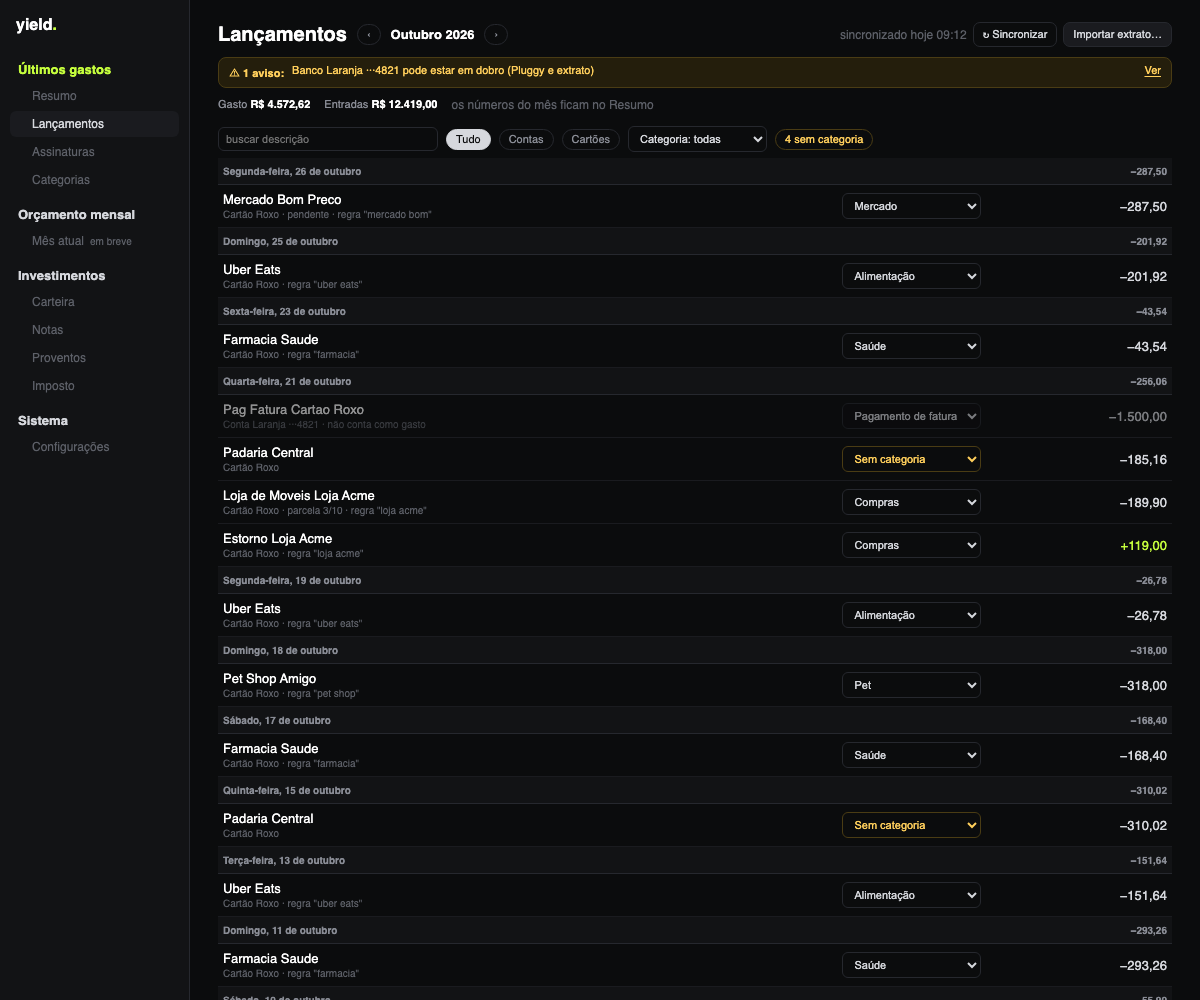
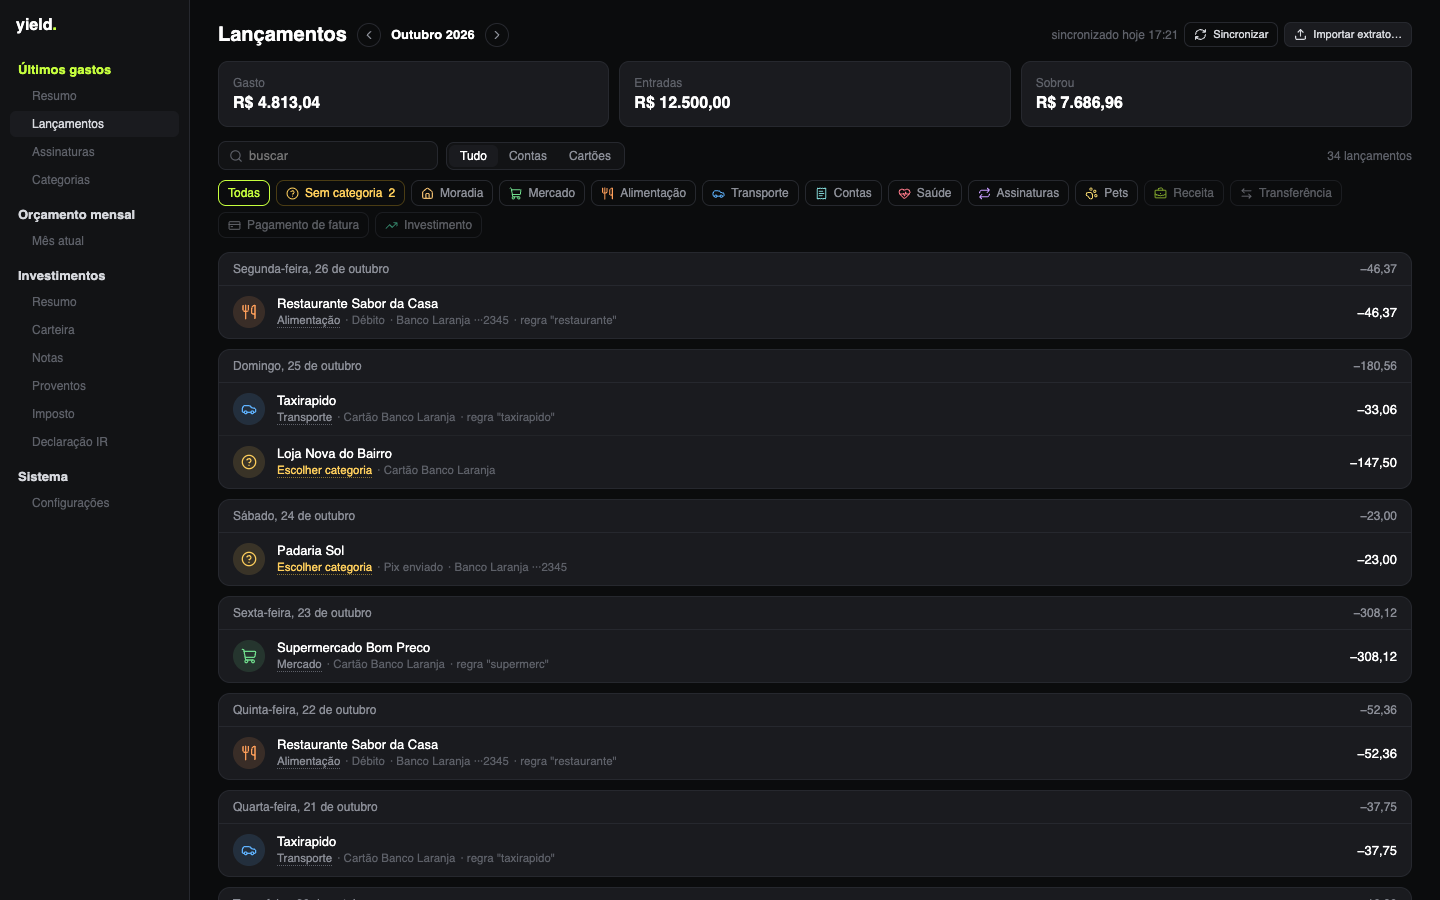
docs: README com GIF e prints novos, CHANGELOG e versão 0.3.0

diff --git a/README.md b/README.md
@@ -20,10 +20,10 @@
 </p>
 
 <p align="center">
-  <img src="docs/screenshots/resumo-gastos.png" width="860" alt="Resumo de gastos do mês com gráficos">
+  <img src="docs/screenshots/yield.gif" width="860" alt="Passeio pelo app: resumo de gastos, lançamentos, categorias, assinaturas, investimentos e declaração de IR">
 </p>
 
-> Todas as imagens usam dados inventados.
+> Todas as imagens usam dados inventados. O que mudou em cada versão está no [CHANGELOG](CHANGELOG.md).
 
 ---
 
@@ -43,10 +43,10 @@ Só três coisas saem do computador:
 
 | | |
 |---|---|
-| **Resumo** | Gasto, entradas e quanto sobrou no mês; gasto acumulado dia a dia contra o mês anterior; gasto por categoria (clicar filtra a lista); últimos 6 meses; maiores gastos. |
-| **Lançamentos** | Conta e cartão juntos, por dia, com busca e filtros. Trocar a categoria de uma compra ou criar a regra "sempre categorizar *X* como *Y*". |
-| **Assinaturas** | Detecta cobranças que se repetem todo mês ou todo ano, com valor parecido, e avisa quando o preço sobe. Parcelas não entram. |
-| **Categorias** | Categorias e regras editáveis. Pagamento de fatura, transferência e investimento não contam como gasto, então a compra no cartão não aparece duas vezes. |
+| **Resumo** | Gasto, entradas, quanto sobrou e o **orçamento do mês com a projeção** "no ritmo atual fecha em…"; o que mais mudou contra o mês anterior; gasto acumulado dia a dia; categorias com a barra do orçamento; últimos 6 meses com o traço do planejado (clicar num mês troca o resumo); maiores gastos e próximas cobranças. |
+| **Lançamentos** | Conta e cartão juntos, um cartão por dia, com o nome do lugar limpo ("Pix enviado · Padaria Sol") e a conta curta. Faixa de categorias para filtrar, total do que está filtrado e grade de categorias com ícones para trocar a de uma compra — ou criar a regra "sempre categorizar *X* como *Y*". |
+| **Assinaturas** | Detecta cobranças que se repetem todo mês ou todo ano e avisa quando o preço sobe. Próximas cobranças, o peso de cada uma no total do mês e exclusão com confirmação. Parcelas não entram. |
+| **Categorias** | Grade com o gasto do mês, a variação contra o mês anterior e a barra do orçamento; ícone e cor escolhidos por você; regras com prévia ("pegaria 17 compras") e sugestões a partir do que você categoriza à mão; apagar uma categoria move as compras e regras para outra. Pagamento de fatura, transferência e investimento não contam como gasto. |
 
 As transações chegam de dois jeitos:
 
@@ -54,7 +54,11 @@ As transações chegam de dois jeitos:
 - **extratos** OFX (Bradesco, Itaú, BB, Inter…) e CSV (Nubank conta, Mercado Pago). Importar o mesmo arquivo de novo não duplica nada.
 
 <p align="center">
-  <img src="docs/screenshots/lancamentos.png" width="860" alt="Lista de lançamentos por dia com categorias">
+  <img src="docs/screenshots/lancamentos.png" width="860" alt="Lançamentos por dia com faixa de categorias">
+</p>
+
+<p align="center">
+  <img src="docs/screenshots/categorias.png" width="860" alt="Categorias em grade com orçamento e regras">
 </p>
 
 ### 🗓 Orçamento mensal
@@ -63,21 +67,26 @@ As transações chegam de dois jeitos:
 |---|---|
 | **Mês atual** | Entradas, saídas e saldo do mês; planejado × gasto real até agora (com a marca de quanto do mês passou) e por categoria; criar o mês seguinte copiando as linhas recorrentes, com as parcelas avançando sozinhas. |
 | **Sugestões** | Assinaturas e parcelas que faltam, vindas dos seus gastos reais. Nada entra no plano sem você aceitar. |
-| **Fontes de renda** | Salário PJ calculado (pró-labore, IRPJ, INSS, contabilidade) ou valor fixo; mudar uma fonte atualiza este mês e os próximos. |
+| **Fontes de renda** | Salário **CLT** (INSS e IRRF de 2026, com a isenção até R$ 5 mil, dependentes e outros descontos), salário **PJ** (pró-labore, IRPJ, INSS, contabilidade) ou valor fixo; mudar uma fonte atualiza este mês e os próximos. |
 | **Importação** | Lê a aba de orçamento de uma planilha, inclusive a calculadora de salário PJ, sem duplicar ao reimportar. |
 
 ### 📈 Investimentos
 
 | | |
 |---|---|
-| **Resumo** | Patrimônio, resultado, proventos e imposto num só lugar; aportado ao longo do tempo × valor de hoje; patrimônio por classe; proventos por mês (rendimento, dividendo, JCP); maiores posições. |
+| **Resumo** | Patrimônio, resultado, proventos (com o rendimento sobre o custo) e imposto; **quanto da sua renda passiva já cobre o gasto médio**; aportado × valor de hoje; classes com o ganho de cada uma; proventos por mês (clicar abre Proventos filtrado); maiores posições. |
 | **Carteira** | Posições com preço médio, custo, cotação e variação, agrupadas por classe, mais ativos manuais (renda fixa, cripto, dólar). |
 | **Notas** | Compras e vendas **importadas do relatório de Negociação da B3**, notas de corretagem digitadas ou **lidas do PDF da Clear** (com taxas rateadas), e eventos corporativos (bonificação, desdobramento, grupamento, troca de ticker). |
-| **Proventos** | Dividendos, JCP e rendimentos, importados dos Proventos Recebidos da B3 ou lançados à mão. |
+| **Proventos** | Dividendos, JCP e rendimentos (importados da B3 ou à mão): 12 meses, ano contra ano, rendimento sobre o custo, gráfico de 24 meses que filtra a lista, ranking por ativo e totais por ano. |
 | **Imposto** | Apuração mensal de renda variável: isenção de R$ 20 mil para ações, prejuízo a compensar (comum e FII), IRRF, DARF (código 6015) com vencimento em dia útil e acompanhamento do que foi pago. |
+| **Declaração IR** | Tudo o que vai na declaração sobre a bolsa, pronto para copiar campo a campo: **Bens e Direitos** (grupo/código, CNPJ, situação nos dois 31/12 e a discriminação pronta), **Rendimentos** isentos e de tributação exclusiva por fonte pagadora, **Renda variável** mês a mês e o cadastro de empresas e corretoras (importável da planilha antiga). |
 
 <p align="center">
-  <img src="docs/screenshots/resumo-investimentos.png" width="860" alt="Resumo de investimentos com gráficos">
+  <img src="docs/screenshots/resumo-investimentos.png" width="860" alt="Resumo de investimentos com renda passiva e classes">
+</p>
+
+<p align="center">
+  <img src="docs/screenshots/declaracao-ir.png" width="860" alt="Declaração de IR: bens e direitos com a discriminação pronta para copiar">
 </p>
 
 ### ⚙ Sistema
@@ -85,6 +94,7 @@ As transações chegam de dois jeitos:
 - Importa da Área do Investidor da B3 os relatórios de Negociação, Proventos Recebidos e Movimentação, vários de uma vez, sem duplicar.
 - Backup num arquivo `.yield` criptografado com uma senha sua (AES-256-GCM, chave derivada com Argon2id). Antes de importar um backup, o app guarda uma cópia de segurança do banco atual.
 - Cotações automáticas a cada 15 minutos.
+- Atualização automática: o app avisa quando sai versão nova no GitHub e se atualiza sozinho (pacotes assinados).
 
 ## 🔒 Privacidade e segurança
 

diff --git a/CHANGELOG.md b/CHANGELOG.md
@@ -1,0 +1,35 @@
+# Changelog
+
+O que mudou em cada versão do yield. O app avisa e se atualiza sozinho quando sai uma versão nova.
+
+## 0.3.0
+
+### Novidades
+- **Declaração de IR** (Investimentos › Declaração IR): tudo o que vai na declaração sobre a bolsa, pronto para copiar campo a campo.
+  - **Bens e Direitos**: um cartão por ativo com grupo/código da Receita, CNPJ, situação em 31/12 dos dois anos e a discriminação pronta ("500 Ações de … ao custo de R$ … cada - Ticker … - Custodiadas na corretora …"). Botão para copiar todas de uma vez.
+  - **Rendimentos**: dividendos (09), rendimentos de FII (26), lucro isento de vendas até R$ 20 mil (20) e JCP (10), somados por fonte pagadora. Dividendo de BDR fica à parte, como renda do exterior.
+  - **Renda variável**: a ficha mês a mês (operações comuns e FII), com os mesmos números da tela Imposto.
+  - **Cadastro** de empresas e corretoras (razão social e CNPJ), editável e importável da aba "Empresas Listadas" da planilha antiga.
+- **Salário CLT** nas fontes de renda: INSS e IRRF de 2026 calculados pelo app (com a isenção até R$ 5 mil da Lei 15.270), dependentes e outros descontos. O líquido vira a entrada do orçamento.
+- **Categorias** de cara nova: grade com o gasto do mês, a variação contra o mês anterior e a barra do orçamento; ícone e cor escolhidos por você; prévia do que uma regra pega antes de criar; sugestões de regra a partir do que você categoriza à mão; apagar uma categoria move as compras, regras e linhas do orçamento para outra.
+- **Resumo de gastos**: orçamento do mês com a projeção "no ritmo atual fecha em…", o que mais mudou contra o mês anterior, categorias com ícone e barra do orçamento, traço do orçamento no gasto por mês e as próximas assinaturas.
+- **Resumo de investimentos**: quanto da sua renda passiva já cobre o gasto médio, rendimento sobre o custo, classes com o ganho de cada uma e clique no mês dos proventos abrindo Proventos filtrado.
+
+### Melhorias
+- Ícones de verdade em todo o app (categorias, botões, avisos).
+
+### Atenção
+- Esta versão atualiza o banco (esquemas 6, 7 e 8). Backups feitos em versões anteriores não podem ser importados nela — exporte um backup novo depois de atualizar.
+
+## 0.2.1
+
+### Novidades
+- **Lançamentos** de cara nova: um cartão por dia, nome do lugar limpo (sem o "Transferência enviada pelo Pix|"), conta curta, faixa de categorias para filtrar, total do que está filtrado e grade de categorias com ícones no lugar do select.
+- **Assinaturas** de cara nova: próximas cobranças, o peso de cada assinatura no total do mês e **excluir** com confirmação.
+- **Proventos** de cara nova: 12 meses, ano contra ano, rendimento sobre o custo, gráfico de 24 meses que filtra a lista, ranking por ativo e totais por ano.
+- Clicar num mês do "Gasto por mês" troca o Resumo de gastos para aquele mês.
+
+### Correções
+- O macOS parava de pedir a senha do Keychain toda hora: o app agora é assinado com um certificado fixo e lê as credenciais da Pluggy uma vez por sessão. Na primeira abertura, clique em "Permitir Sempre".
+- Pix da sua própria empresa conta como Receita, não como transferência.
+- Gráficos desenhados no tamanho real (o texto não fica gigante em tela larga) e barras de rolagem escondidas.
